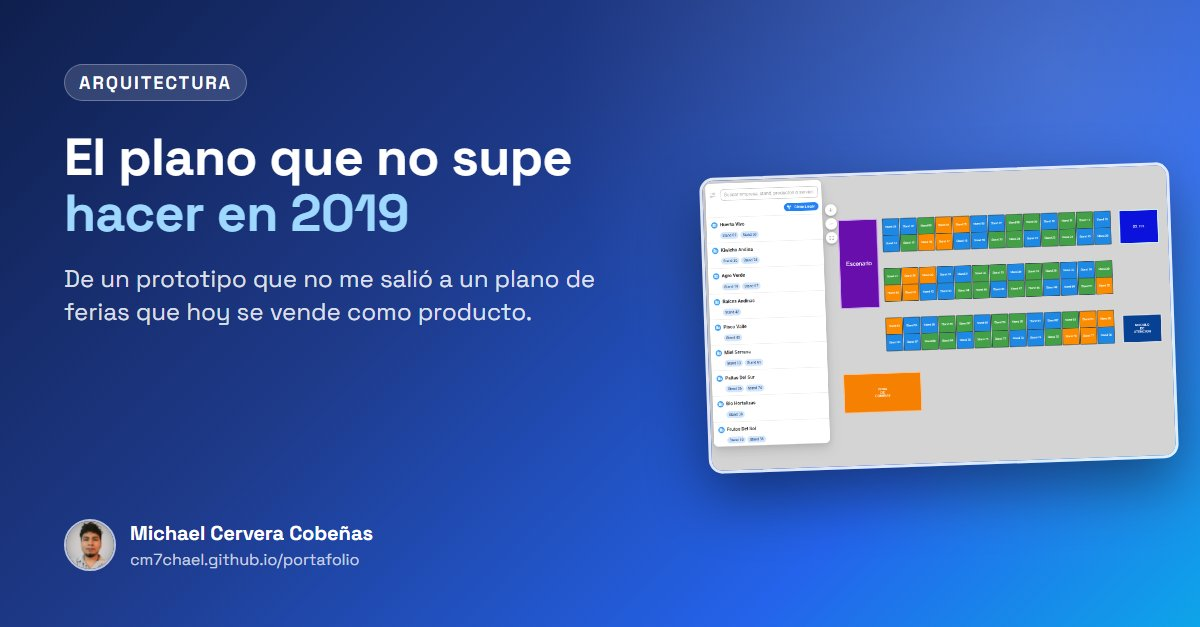
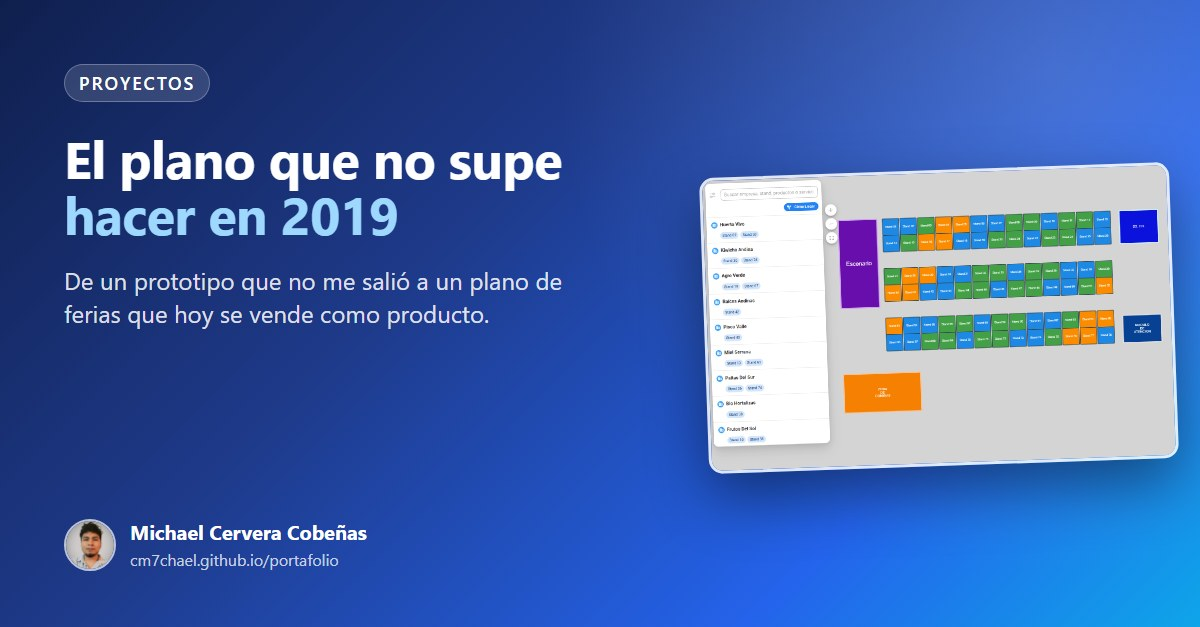
Blog: categoría Proyectos para el artículo del plano

diff --git a/blog/index.html b/blog/index.html
@@ -45,12 +45,12 @@
         <p class="eyebrow">Blog</p>
         <h1>Lo que aprendí construyendo plataformas</h1>
         <p class="section__description">Arquitectura y trabajo en equipo. Cada artículo sale de algo que me tocó resolver en producción.</p>
-        <nav class="blog__categorias" id="blog-categorias" aria-label="Categorías"><button type="button" class="blog-chip activo" data-c="">Todos <span>6</span></button><button type="button" class="blog-chip" data-c="arquitectura">Arquitectura <span>4</span></button><button type="button" class="blog-chip" data-c="equipos-y-liderazgo">Equipos y liderazgo <span>1</span></button><button type="button" class="blog-chip" data-c="cloud-y-devops">Cloud y DevOps <span>1</span></button></nav>
+        <nav class="blog__categorias" id="blog-categorias" aria-label="Categorías"><button type="button" class="blog-chip activo" data-c="">Todos <span>6</span></button><button type="button" class="blog-chip" data-c="proyectos">Proyectos <span>1</span></button><button type="button" class="blog-chip" data-c="equipos-y-liderazgo">Equipos y liderazgo <span>1</span></button><button type="button" class="blog-chip" data-c="arquitectura">Arquitectura <span>3</span></button><button type="button" class="blog-chip" data-c="cloud-y-devops">Cloud y DevOps <span>1</span></button></nav>
       </div>
     </header>
     <!-- La lista y los botones de categoría los deja escritos generar-blog.js; blog.js los activa. -->
     <div class="container" id="blog-lista" data-slugs="plano-de-ferias-que-no-supe-hacer-2019,decisiones-documentadas-adr-equipo,integrar-sap-business-one-gateway-tablas-espejo,design-system-angular-17-aplicaciones,cicd-sin-llaves-workload-identity-federation-cloud-run,microfrontends-angular-native-federation-lecciones-produccion">
-      <section class="blog-grupo" id="cat-arquitectura"><div class="blog-grupo__cabecera"><h2>Arquitectura</h2><span>4 artículos</span></div><div class="row"><div class="col-12 col-md-6 col-lg-4 mb-4"><a class="blog-card" href="https://cm7chael.github.io/portafolio/blog/plano-de-ferias-que-no-supe-hacer-2019.html"><img class="blog-card__img" src="https://cm7chael.github.io/portafolio/assets/image/blog/miniaturas/plano-ferias.jpg" alt="" width="1200" height="627" fetchpriority="high"><div class="blog-card__cuerpo"><p class="blog-card__meta">Arquitectura · 20 de octubre de 2026 · 5 min</p><h3>El plano de ferias que no supe hacer en 2019</h3><p class="blog-card__resumen">En 2019 intenté un plano web para ferias y no me salió. En 2025 lo retomamos y hoy se vende como producto. Qué puso la IA y qué tuvimos que decidir nosotros.</p><div class="stack"><span class="stack__item">Canvas</span><span class="stack__item">Konva</span><span class="stack__item">IA</span></div></div></a></div><div class="col-12 col-md-6 col-lg-4 mb-4"><a class="blog-card" href="https://cm7chael.github.io/portafolio/blog/integrar-sap-business-one-gateway-tablas-espejo.html"><img class="blog-card__img" src="https://cm7chael.github.io/portafolio/assets/image/blog/miniaturas/sap-una-sola-puerta.jpg" alt="" width="1200" height="627" loading="lazy"><div class="blog-card__cuerpo"><p class="blog-card__meta">Arquitectura · 10 de octubre de 2026 · 6 min</p><h3>SAP Business One con una sola puerta: cómo lo integré en 17 aplicaciones sin que ninguna le hable directo</h3><p class="blog-card__resumen">Cómo 17 aplicaciones usan SAP Business One sin conectarse a él: un gateway único, tablas espejo para los maestros y lo aprendido con el Service Layer.</p><div class="stack"><span class="stack__item">SAP Business One</span><span class="stack__item">Service Layer</span><span class="stack__item">HANA</span></div></div></a></div><div class="col-12 col-md-6 col-lg-4 mb-4"><a class="blog-card" href="https://cm7chael.github.io/portafolio/blog/design-system-angular-17-aplicaciones.html"><img class="blog-card__img" src="https://cm7chael.github.io/portafolio/assets/image/blog/miniaturas/design-system.jpg" alt="" width="1200" height="627" loading="lazy"><div class="blog-card__cuerpo"><p class="blog-card__meta">Arquitectura · 10 de octubre de 2026 · 6 min</p><h3>Un Design System para 17 aplicaciones: cómo lo armé en Angular y lo que me tocó corregir</h3><p class="blog-card__resumen">Cómo armé un Design System en Angular con Nx que usan 17 aplicaciones: librerías, tokens, Material encapsulado y lo que me tocó corregir.</p><div class="stack"><span class="stack__item">Design System</span><span class="stack__item">Angular</span><span class="stack__item">Nx</span></div></div></a></div><div class="col-12 col-md-6 col-lg-4 mb-4"><a class="blog-card" href="https://cm7chael.github.io/portafolio/blog/microfrontends-angular-native-federation-lecciones-produccion.html"><img class="blog-card__img" src="https://cm7chael.github.io/portafolio/assets/image/blog/miniaturas/microfrontends.jpg" alt="" width="1200" height="627" loading="lazy"><div class="blog-card__cuerpo"><p class="blog-card__meta">Arquitectura · 10 de octubre de 2026 · 6 min</p><h3>Microfrontends con Angular y Native Federation: lo que aprendí llevando más de 15 módulos a producción</h3><p class="blog-card__resumen">Lecciones reales de llevar más de 15 microfrontends a producción con Angular y Native Federation: rutas, CORS, caché, ambientes y Design System.</p><div class="stack"><span class="stack__item">microfrontends</span><span class="stack__item">Angular</span><span class="stack__item">Native Federation</span></div></div></a></div></div></section><section class="blog-grupo" id="cat-equipos-y-liderazgo"><div class="blog-grupo__cabecera"><h2>Equipos y liderazgo</h2><span>1 artículo</span></div><div class="row"><div class="col-12 col-md-6 col-lg-4 mb-4"><a class="blog-card" href="https://cm7chael.github.io/portafolio/blog/decisiones-documentadas-adr-equipo.html"><img class="blog-card__img" src="https://cm7chael.github.io/portafolio/assets/image/blog/miniaturas/decisiones-documentadas.jpg" alt="" width="1200" height="627" loading="lazy"><div class="blog-card__cuerpo"><p class="blog-card__meta">Equipos y liderazgo · 16 de octubre de 2026 · 5 min</p><h3>Decisiones documentadas: cómo uso los ADR para que el equipo avance con su propio criterio</h3><p class="blog-card__resumen">Qué es un ADR, la plantilla que uso, cuándo escribir uno y qué cambió en el equipo después de documentar 14 decisiones técnicas en dos meses.</p><div class="stack"><span class="stack__item">ADR</span><span class="stack__item">Arquitectura</span><span class="stack__item">Documentación</span></div></div></a></div></div></section><section class="blog-grupo" id="cat-cloud-y-devops"><div class="blog-grupo__cabecera"><h2>Cloud y DevOps</h2><span>1 artículo</span></div><div class="row"><div class="col-12 col-md-6 col-lg-4 mb-4"><a class="blog-card" href="https://cm7chael.github.io/portafolio/blog/cicd-sin-llaves-workload-identity-federation-cloud-run.html"><img class="blog-card__img" src="https://cm7chael.github.io/portafolio/assets/image/blog/miniaturas/cicd-sin-llaves.jpg" alt="" width="1200" height="627" loading="lazy"><div class="blog-card__cuerpo"><p class="blog-card__meta">Cloud y DevOps · 10 de octubre de 2026 · 6 min</p><h3>CI/CD sin llaves: cómo despliego más de 20 repositorios a Cloud Run con Workload Identity Federation</h3><p class="blog-card__resumen">Cómo desplegar a Cloud Run desde GitHub Actions sin llaves de servicio, con Workload Identity Federation: paso a paso y lo aprendido con más de 20 repos.</p><div class="stack"><span class="stack__item">CI/CD</span><span class="stack__item">GitHub Actions</span><span class="stack__item">Google Cloud</span></div></div></a></div></div></section>
+      <section class="blog-grupo" id="cat-proyectos"><div class="blog-grupo__cabecera"><h2>Proyectos</h2><span>1 artículo</span></div><div class="row"><div class="col-12 col-md-6 col-lg-4 mb-4"><a class="blog-card" href="https://cm7chael.github.io/portafolio/blog/plano-de-ferias-que-no-supe-hacer-2019.html"><img class="blog-card__img" src="https://cm7chael.github.io/portafolio/assets/image/blog/miniaturas/plano-ferias.jpg" alt="" width="1200" height="627" fetchpriority="high"><div class="blog-card__cuerpo"><p class="blog-card__meta">Proyectos · 20 de octubre de 2026 · 5 min</p><h3>El plano de ferias que no supe hacer en 2019</h3><p class="blog-card__resumen">En 2019 intenté un plano web para ferias y no me salió. En 2025 lo retomamos y hoy se vende como producto. Qué puso la IA y qué tuvimos que decidir nosotros.</p><div class="stack"><span class="stack__item">Canvas</span><span class="stack__item">Konva</span><span class="stack__item">IA</span></div></div></a></div></div></section><section class="blog-grupo" id="cat-equipos-y-liderazgo"><div class="blog-grupo__cabecera"><h2>Equipos y liderazgo</h2><span>1 artículo</span></div><div class="row"><div class="col-12 col-md-6 col-lg-4 mb-4"><a class="blog-card" href="https://cm7chael.github.io/portafolio/blog/decisiones-documentadas-adr-equipo.html"><img class="blog-card__img" src="https://cm7chael.github.io/portafolio/assets/image/blog/miniaturas/decisiones-documentadas.jpg" alt="" width="1200" height="627" loading="lazy"><div class="blog-card__cuerpo"><p class="blog-card__meta">Equipos y liderazgo · 16 de octubre de 2026 · 5 min</p><h3>Decisiones documentadas: cómo uso los ADR para que el equipo avance con su propio criterio</h3><p class="blog-card__resumen">Qué es un ADR, la plantilla que uso, cuándo escribir uno y qué cambió en el equipo después de documentar 14 decisiones técnicas en dos meses.</p><div class="stack"><span class="stack__item">ADR</span><span class="stack__item">Arquitectura</span><span class="stack__item">Documentación</span></div></div></a></div></div></section><section class="blog-grupo" id="cat-arquitectura"><div class="blog-grupo__cabecera"><h2>Arquitectura</h2><span>3 artículos</span></div><div class="row"><div class="col-12 col-md-6 col-lg-4 mb-4"><a class="blog-card" href="https://cm7chael.github.io/portafolio/blog/integrar-sap-business-one-gateway-tablas-espejo.html"><img class="blog-card__img" src="https://cm7chael.github.io/portafolio/assets/image/blog/miniaturas/sap-una-sola-puerta.jpg" alt="" width="1200" height="627" loading="lazy"><div class="blog-card__cuerpo"><p class="blog-card__meta">Arquitectura · 10 de octubre de 2026 · 6 min</p><h3>SAP Business One con una sola puerta: cómo lo integré en 17 aplicaciones sin que ninguna le hable directo</h3><p class="blog-card__resumen">Cómo 17 aplicaciones usan SAP Business One sin conectarse a él: un gateway único, tablas espejo para los maestros y lo aprendido con el Service Layer.</p><div class="stack"><span class="stack__item">SAP Business One</span><span class="stack__item">Service Layer</span><span class="stack__item">HANA</span></div></div></a></div><div class="col-12 col-md-6 col-lg-4 mb-4"><a class="blog-card" href="https://cm7chael.github.io/portafolio/blog/design-system-angular-17-aplicaciones.html"><img class="blog-card__img" src="https://cm7chael.github.io/portafolio/assets/image/blog/miniaturas/design-system.jpg" alt="" width="1200" height="627" loading="lazy"><div class="blog-card__cuerpo"><p class="blog-card__meta">Arquitectura · 10 de octubre de 2026 · 6 min</p><h3>Un Design System para 17 aplicaciones: cómo lo armé en Angular y lo que me tocó corregir</h3><p class="blog-card__resumen">Cómo armé un Design System en Angular con Nx que usan 17 aplicaciones: librerías, tokens, Material encapsulado y lo que me tocó corregir.</p><div class="stack"><span class="stack__item">Design System</span><span class="stack__item">Angular</span><span class="stack__item">Nx</span></div></div></a></div><div class="col-12 col-md-6 col-lg-4 mb-4"><a class="blog-card" href="https://cm7chael.github.io/portafolio/blog/microfrontends-angular-native-federation-lecciones-produccion.html"><img class="blog-card__img" src="https://cm7chael.github.io/portafolio/assets/image/blog/miniaturas/microfrontends.jpg" alt="" width="1200" height="627" loading="lazy"><div class="blog-card__cuerpo"><p class="blog-card__meta">Arquitectura · 10 de octubre de 2026 · 6 min</p><h3>Microfrontends con Angular y Native Federation: lo que aprendí llevando más de 15 módulos a producción</h3><p class="blog-card__resumen">Lecciones reales de llevar más de 15 microfrontends a producción con Angular y Native Federation: rutas, CORS, caché, ambientes y Design System.</p><div class="stack"><span class="stack__item">microfrontends</span><span class="stack__item">Angular</span><span class="stack__item">Native Federation</span></div></div></a></div></div></section><section class="blog-grupo" id="cat-cloud-y-devops"><div class="blog-grupo__cabecera"><h2>Cloud y DevOps</h2><span>1 artículo</span></div><div class="row"><div class="col-12 col-md-6 col-lg-4 mb-4"><a class="blog-card" href="https://cm7chael.github.io/portafolio/blog/cicd-sin-llaves-workload-identity-federation-cloud-run.html"><img class="blog-card__img" src="https://cm7chael.github.io/portafolio/assets/image/blog/miniaturas/cicd-sin-llaves.jpg" alt="" width="1200" height="627" loading="lazy"><div class="blog-card__cuerpo"><p class="blog-card__meta">Cloud y DevOps · 10 de octubre de 2026 · 6 min</p><h3>CI/CD sin llaves: cómo despliego más de 20 repositorios a Cloud Run con Workload Identity Federation</h3><p class="blog-card__resumen">Cómo desplegar a Cloud Run desde GitHub Actions sin llaves de servicio, con Workload Identity Federation: paso a paso y lo aprendido con más de 20 repos.</p><div class="stack"><span class="stack__item">CI/CD</span><span class="stack__item">GitHub Actions</span><span class="stack__item">Google Cloud</span></div></div></a></div></div></section>
     </div>
     <!-- /blog-lista -->
   </main>

diff --git a/blog/plano-de-ferias-que-no-supe-hacer-2019.html b/blog/plano-de-ferias-que-no-supe-hacer-2019.html
@@ -21,7 +21,7 @@
   <meta property="og:image" content="https://cm7chael.github.io/portafolio/assets/image/blog/plano-ferias.jpg">
   <meta property="og:url" content="https://cm7chael.github.io/portafolio/blog/plano-de-ferias-que-no-supe-hacer-2019.html">
   <meta name="twitter:card" content="summary_large_image">
-  <script type="application/ld+json">{"@context":"https://schema.org","@type":"BlogPosting","headline":"El plano de ferias que no supe hacer en 2019","description":"En 2019 intenté un plano web para ferias y no me salió. En 2025 lo retomamos y hoy se vende como producto. Qué puso la IA y qué tuvimos que decidir nosotros.","image":"https://cm7chael.github.io/portafolio/assets/image/blog/plano-ferias.jpg","datePublished":"2026-10-20T20:22:10.314Z","dateModified":"2026-10-20T21:20:32.160Z","author":{"@type":"Person","name":"Michael Cervera Cobeñas","url":"https://cm7chael.github.io/portafolio/"},"mainEntityOfPage":"https://cm7chael.github.io/portafolio/blog/plano-de-ferias-que-no-supe-hacer-2019.html","keywords":"Canvas, Konva, IA, Producto, Ferias"}</script>
+  <script type="application/ld+json">{"@context":"https://schema.org","@type":"BlogPosting","headline":"El plano de ferias que no supe hacer en 2019","description":"En 2019 intenté un plano web para ferias y no me salió. En 2025 lo retomamos y hoy se vende como producto. Qué puso la IA y qué tuvimos que decidir nosotros.","image":"https://cm7chael.github.io/portafolio/assets/image/blog/plano-ferias.jpg","datePublished":"2026-10-20T20:22:10.314Z","dateModified":"2026-10-20T21:50:05.828Z","author":{"@type":"Person","name":"Michael Cervera Cobeñas","url":"https://cm7chael.github.io/portafolio/"},"mainEntityOfPage":"https://cm7chael.github.io/portafolio/blog/plano-de-ferias-que-no-supe-hacer-2019.html","keywords":"Canvas, Konva, IA, Producto, Ferias"}</script>
 </head>
 <body>
   <nav class="navbar navbar-expand-lg navbar-dark nav-glass fixed-top">
@@ -44,7 +44,7 @@
 
   <main class="container pagina">
     <article class="articulo" id="articulo" data-slug="plano-de-ferias-que-no-supe-hacer-2019">
-      <p class="articulo__ruta"><a href="./">&larr; Blog</a> <a class="blog-chip blog-chip--chico" id="articulo-categoria" href="./?c=arquitectura">Arquitectura</a></p>
+      <p class="articulo__ruta"><a href="./">&larr; Blog</a> <a class="blog-chip blog-chip--chico" id="articulo-categoria" href="./?c=proyectos">Proyectos</a></p>
       <h1 id="articulo-titulo">El plano de ferias que no supe hacer en 2019</h1>
       <p class="post-card__fecha" id="articulo-fecha">20 de octubre de 2026 · 5 min de lectura</p>
       <img class="articulo__portada" id="articulo-portada" alt="" width="1200" height="627" src="https://cm7chael.github.io/portafolio/assets/image/blog/plano-ferias.jpg">
